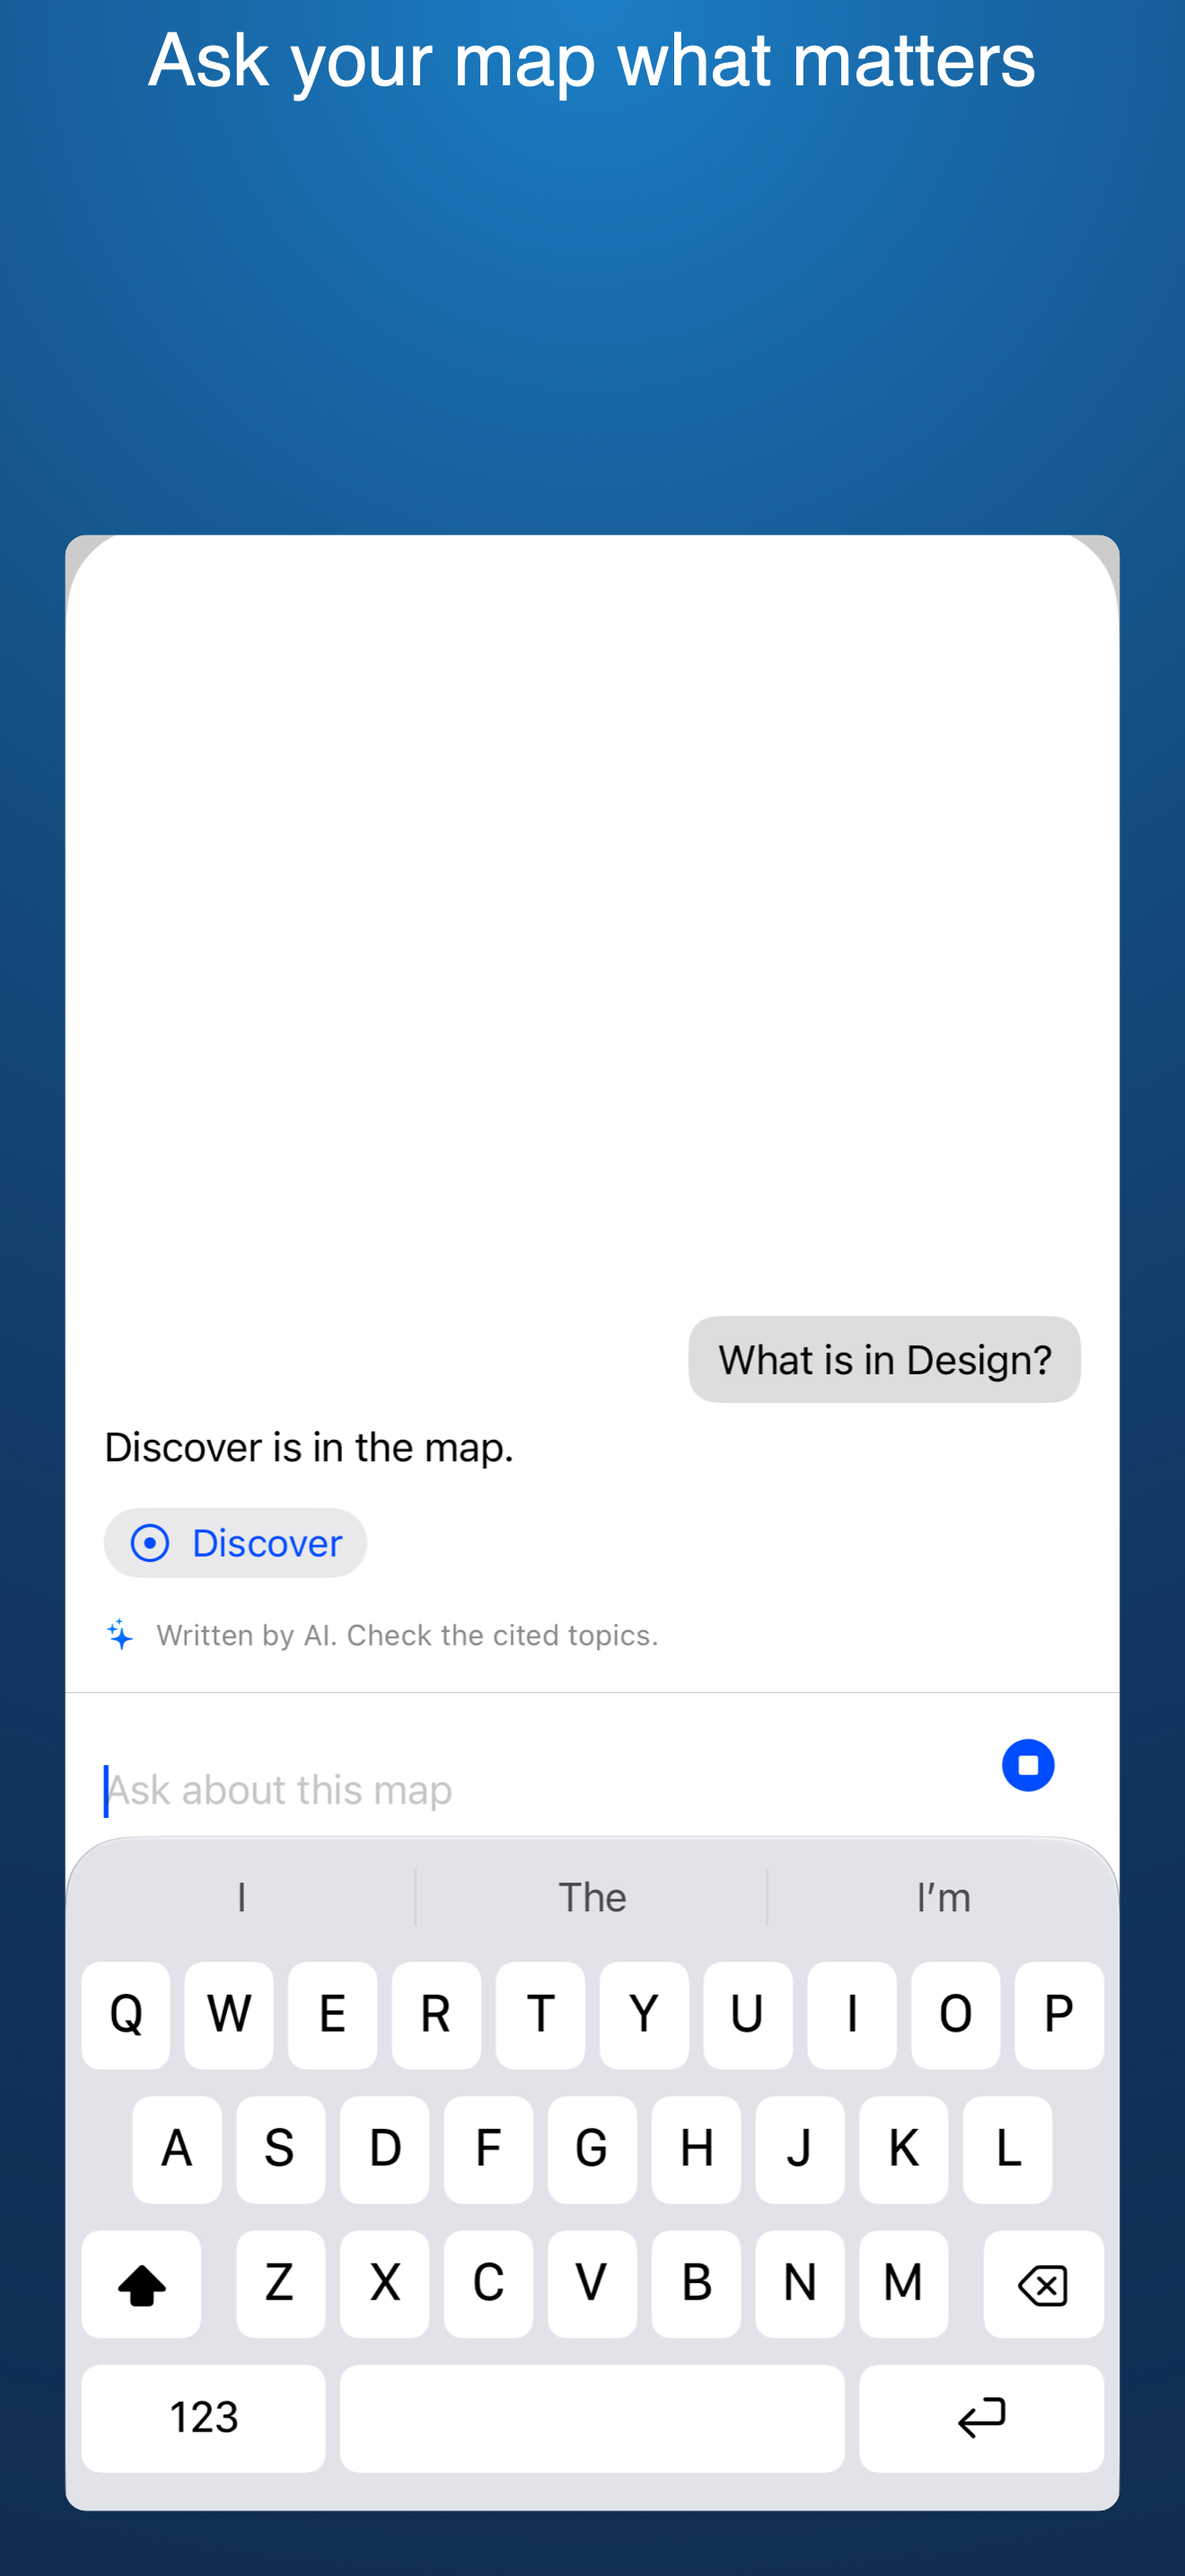
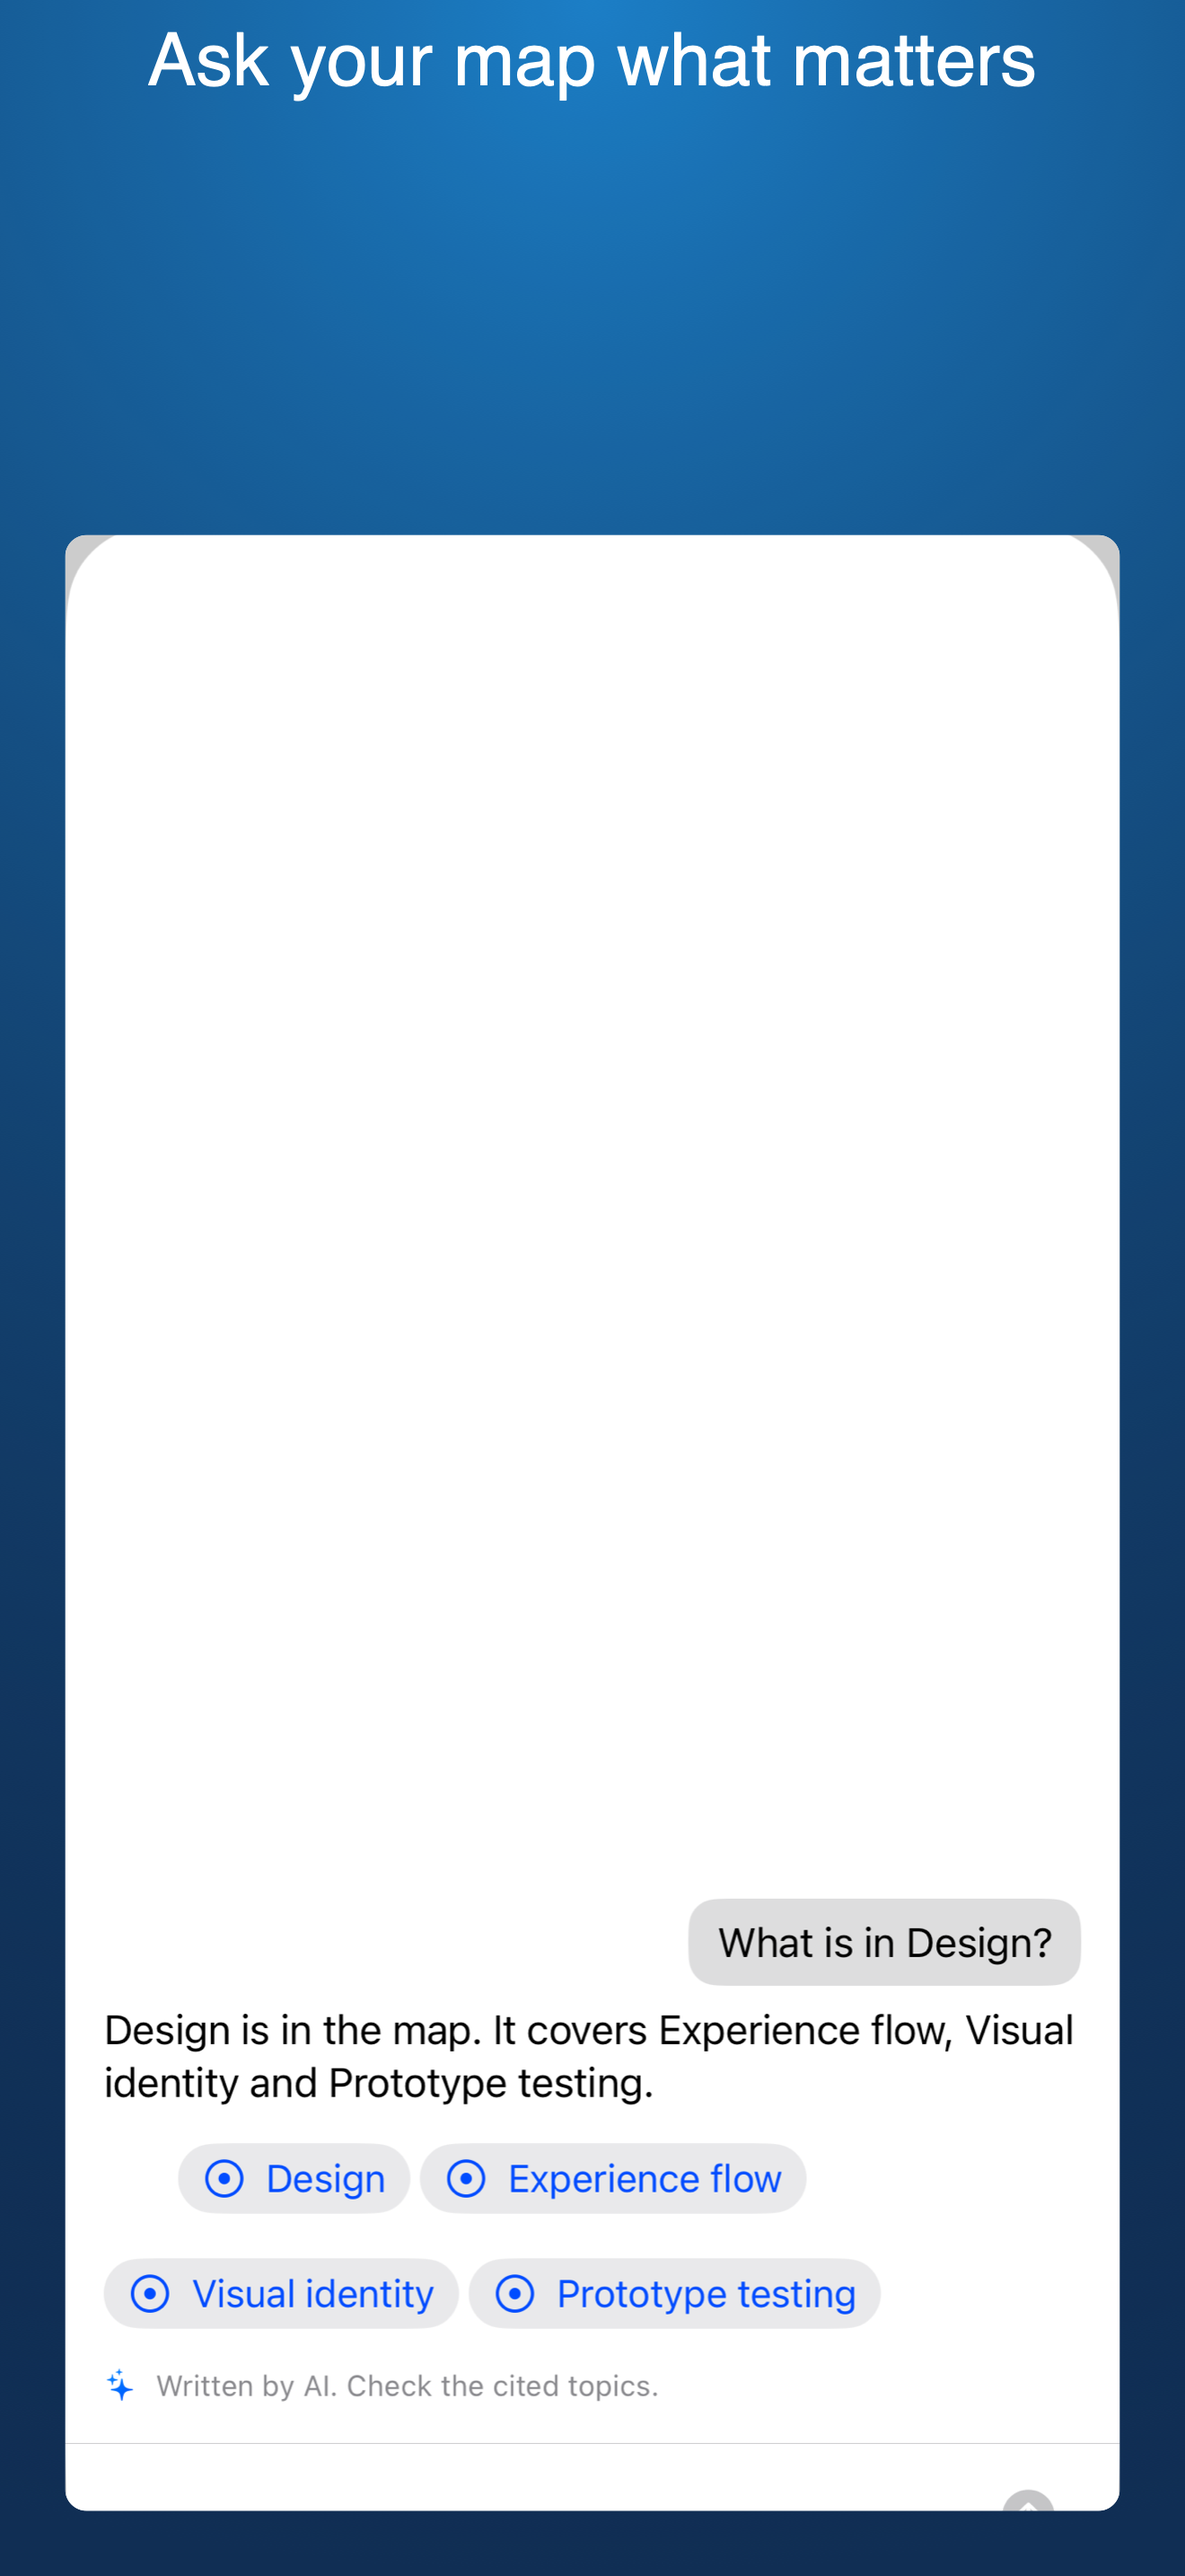
fix: swap Stop back to Ask when a chat answer ends and recapture iPhone screenshots

diff --git a/MindMapAI/App/UITestAIService.swift b/MindMapAI/App/UITestAIService.swift
@@ -77,15 +77,32 @@ private struct UITestChatProvider: ChatProvider {
                     continuation.yield(ChatUpdate(isReadingMap: true))
                     var table = CitationTable()
                     var hit: TopicHit?
-                    for word in message.text.split(whereSeparator: { !$0.isLetter && !$0.isNumber }) where hit == nil {
-                        hit = try? await queries.search(String(word), in: mapID, limit: 1).first
+                    // Longest words first, so "Design" wins over "is", which "Discover" also holds.
+                    let words = message.text.split(whereSeparator: { !$0.isLetter && !$0.isNumber })
+                        .map(String.init).sorted { $0.count > $1.count }
+                    for word in words where hit == nil {
+                        hit = try? await queries.search(word, in: mapID, limit: 1).first
                     }
+                    let vietnamese = message.language == .vietnamese
                     let text: String
                     if let hit {
                         let handle = table.handle(for: hit.ref.nodeID, in: mapID, title: hit.title)
-                        text = "\(hit.title) is in the map [\(handle)]."
+                        let children = (try? await queries.topic(hit.ref))?.children ?? []
+                        let cited = children.map { child in
+                            "\(child.title) [\(table.handle(for: child.nodeID, in: mapID, title: child.title))]"
+                        }
+                        // The screenshots show this answer, so it reads like one about the topic's branch.
+                        if cited.isEmpty {
+                            text = vietnamese ? "\(hit.title) có trong sơ đồ [\(handle)]." : "\(hit.title) is in the map [\(handle)]."
+                        } else {
+                            let last = cited.count > 1 ? (vietnamese ? " và " : " and ") + cited[cited.count - 1] : ""
+                            let list = cited.dropLast(cited.count > 1 ? 1 : 0).joined(separator: ", ") + last
+                            text = vietnamese
+                                ? "\(hit.title) [\(handle)] gồm \(list)."
+                                : "\(hit.title) is in the map [\(handle)]. It covers \(list)."
+                        }
                     } else {
-                        text = "The map does not seem to cover that."
+                        text = vietnamese ? "Sơ đồ có vẻ không nói tới điều này." : "The map does not seem to cover that."
                     }
                     continuation.yield(ChatUpdate(text: text, citations: table.citations(in: text), isComplete: true))
                     continuation.finish()

diff --git a/MindMapAITests/MapChatTests.swift b/MindMapAITests/MapChatTests.swift
@@ -5,6 +5,7 @@ import MindMapDomain
 import MindMapGraph
 import MindMapPersistence
 import MindMapTestSupport
+import Observation
 import Testing
 
 /// Ask in a map end to end without a model: `MockChatProvider` answers, a real
@@ -77,6 +78,20 @@ struct MapChatTests {
         #expect(chat.turns.map(\.answer) == ["The beta comes first [T2]."])
         #expect(!chat.session.canUndo, "asking never edits the map")
         #expect(chatProvider.questions.first?.scope == .map(chat.session.map.id))
+    }
+
+    @Test func theComposerHearsWhenAnAnswerEnds() async throws {
+        let chat = try await open()
+        chatProvider.enqueue(.text("The beta comes first.", citations: []))
+        chat.draft = "What comes first?"
+        chat.ask()
+        let ended = Flag()
+        withObservationTracking { _ = chat.isAnswering } onChange: { ended.set() }
+
+        await chat.answerSettled()
+
+        #expect(!chat.isAnswering)
+        #expect(ended.value, "Stop stays on screen unless isAnswering is observable")
     }
 
     @Test func theAnswerFollowsTheLanguageOfTheQuestion() async throws {
@@ -240,4 +255,10 @@ struct MapChatTests {
 /// Ask in a map is free; nothing here should ask, but the service needs an answer.
 private struct NothingLocked: ProEntitlements {
     func allows(_ feature: ProFeature) -> Bool { true }
+}
+
+/// Set from an observation callback, read after the answer settles.
+nonisolated private final class Flag: @unchecked Sendable {
+    private(set) var value = false
+    func set() { value = true }
 }

diff --git a/MindMapAI/Features/Chat/MapChat.swift b/MindMapAI/Features/Chat/MapChat.swift
@@ -54,7 +54,8 @@ final class MapChat {
     private(set) var showsLeftOutNotice = false
 
     @ObservationIgnored private var conversation: (any ChatConversation)?
-    @ObservationIgnored private var task: Task<Void, Never>?
+    /// Observed: `isAnswering` reads it, and the composer swaps Stop back to Ask when it ends.
+    private var task: Task<Void, Never>?
     @ObservationIgnored private var hasNoticedLeftOut = false
     @ObservationIgnored private let locale: Locale
 

diff --git a/MindMapAI/Features/Chat/ChatPanel.swift b/MindMapAI/Features/Chat/ChatPanel.swift
@@ -30,6 +30,8 @@ struct ChatPanel: View {
                 .frame(maxWidth: .infinity, alignment: .leading)
             }
             .defaultScrollAnchor(.bottom)
+            // Scrolling back through answers puts the keyboard away, as in Messages.
+            .scrollDismissesKeyboard(.immediately)
             Divider()
             composer
         }

diff --git a/docs/app-store/README.md b/docs/app-store/README.md
@@ -11,3 +11,16 @@ What goes into App Store Connect for MindMap AI by xDev (MM-14), kept here so a 
 Set in App Store Connect on 2026-10-03 through the API: the texts above, privacy policy, support and marketing URLs on xdev.asia, category Productivity (secondary Education), age rating answers (all none, 4+), version 1.0.0 for macOS and iOS, copyright "© 2026 Trần Duy (xDev)", content rights (no third-party content). Still by hand in App Store Connect: App Privacy ("Data Not Collected"), App Review contact details, screenshots until they are uploaded, and the build to submit (1.0.0; TestFlight builds are 0.x).
 
 Rules for these texts are in [app-store-readiness.md](../app-store-readiness.md): describe only what the shipped build does, no other apps' names, no prices.
+
+## Screenshots
+
+`scripts/app-store-screenshots.sh <iphone|ipad|mac> <en|vi|all> <light|dark|all>` runs `AppStoreScreenshotUITests` (UI test mode: showcase map, scripted AI, status bar 9:41) and writes:
+
+| Path | What |
+| --- | --- |
+| `screenshots/raw/<platform>/<language>/NN-name.png` | The app as captured, no frame; dark mode in `dark/` |
+| `screenshots/captions.json` | The caption of each slide per language |
+| `screenshots/<platform>/<language>/NN-name.png` | Fallback slides at App Store size: caption over a plain gradient |
+| `screenshots/backgrounds/<platform>/<language>/NN-name.png` | Optional art for a slide (MM-74); when present it replaces the gradient |
+
+To recompose after adding art without recapturing, run again with `MINDMAP_SCREENSHOT_REUSE_RESULTS=1`. Set `MINDMAP_SCREENSHOT_SIMULATOR=<udid>` to capture on a simulator no other run uses. The Mac set is captured by the leader only, because a macOS UI test takes over the mouse and keyboard.
